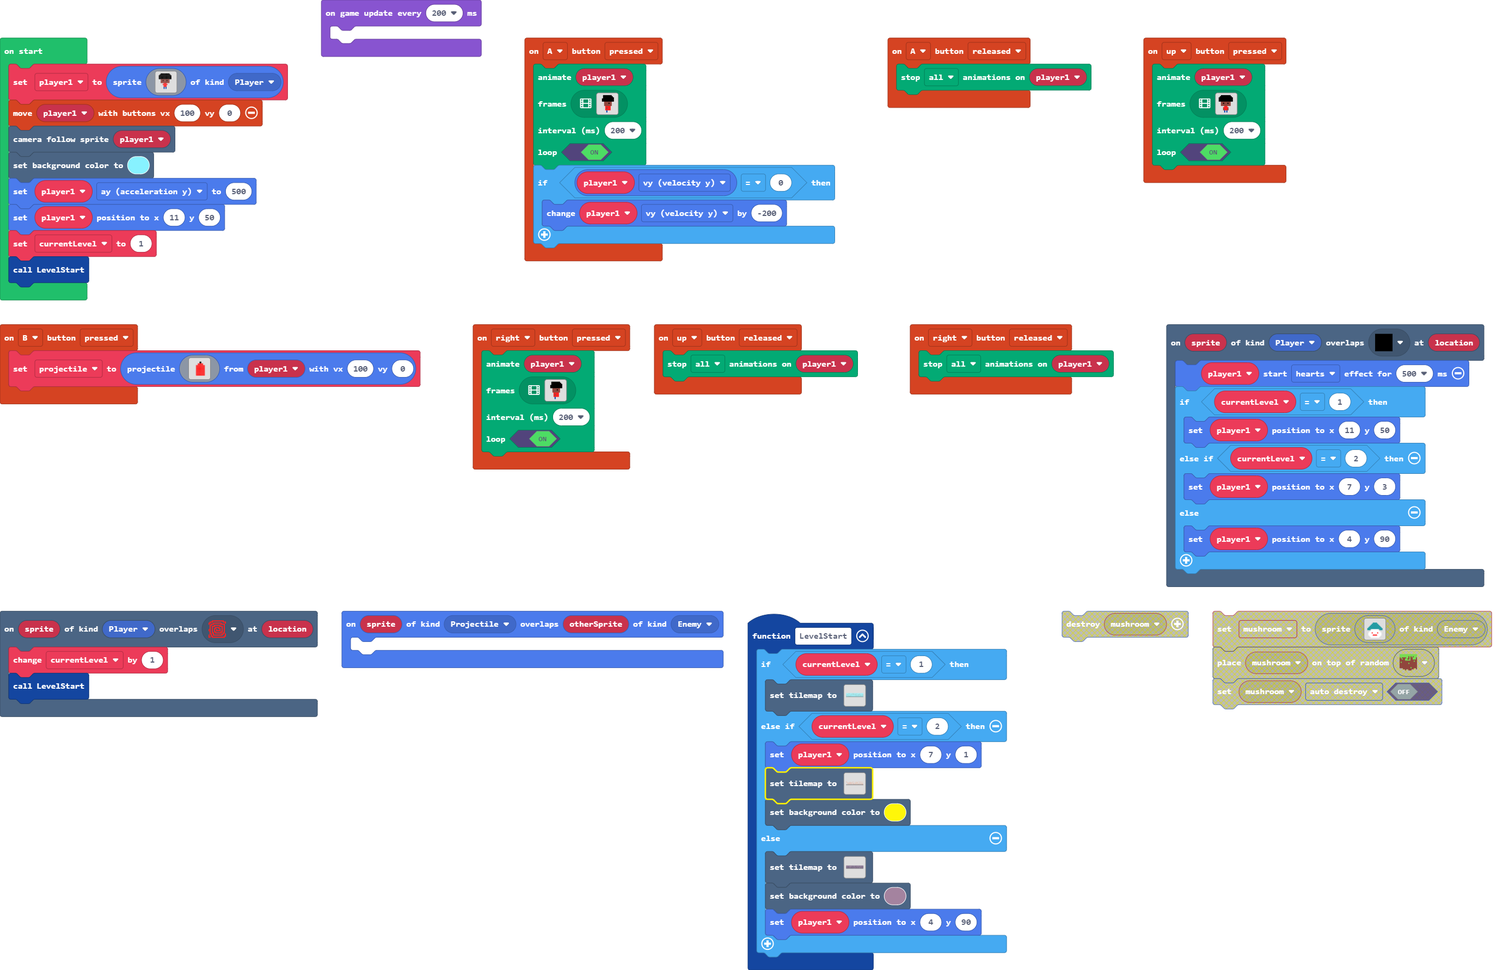
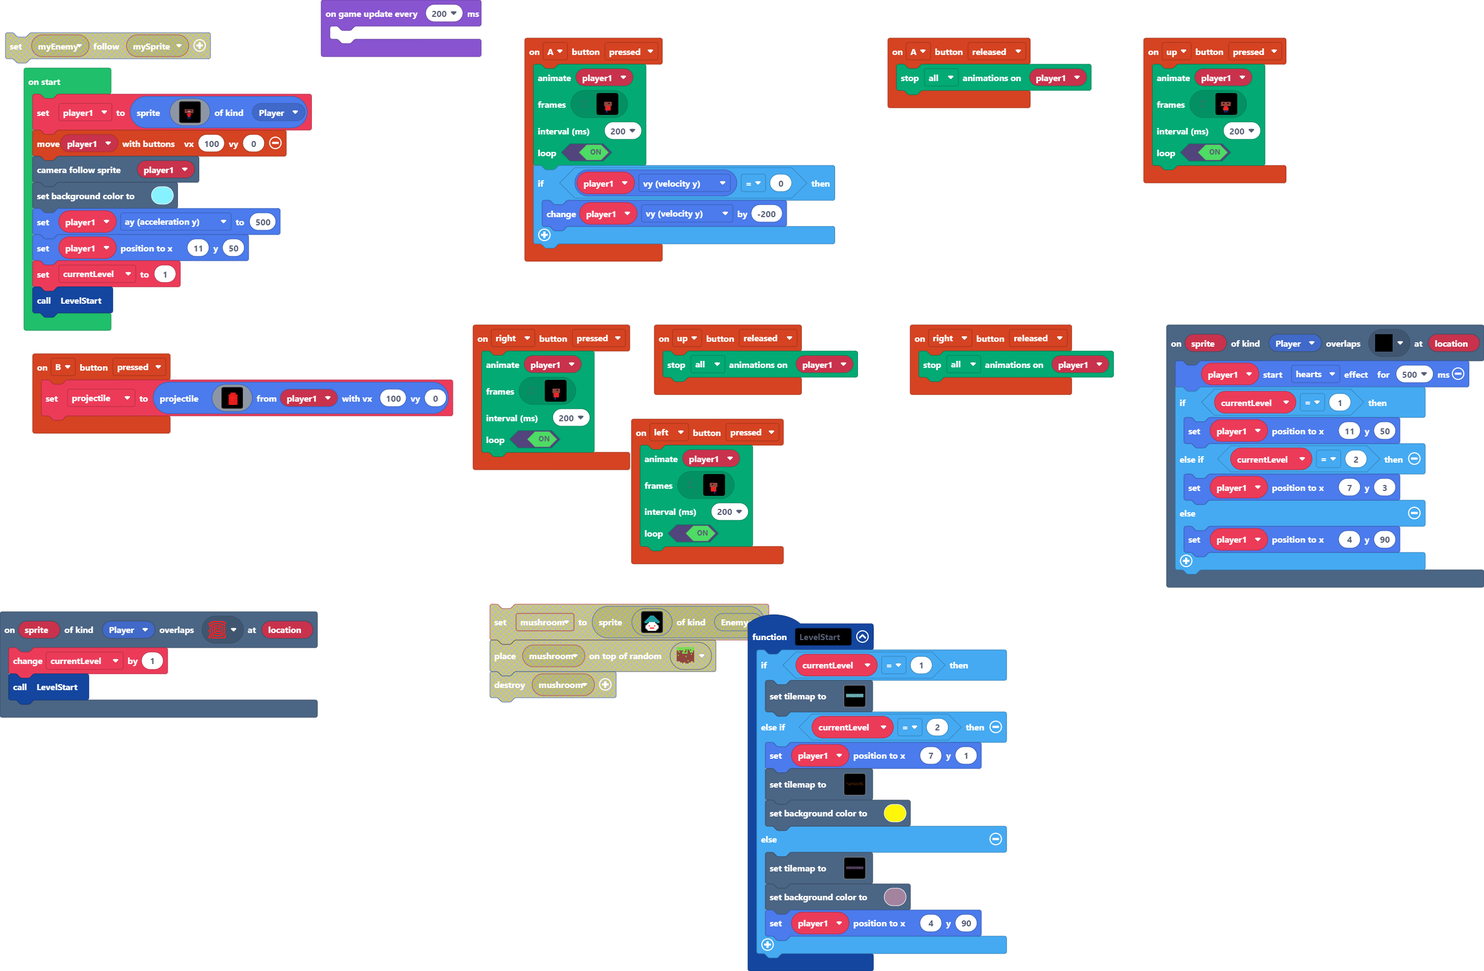
Update pxt.json, main.blocks, main.ts, tilemap.g.jres, tilemap.g.ts

diff --git a/tilemap.g.ts b/tilemap.g.ts
@@ -83,25 +83,6 @@ namespace myTiles {
 ..............................
 ..............................
 `, [myTiles.transparency16,myTiles.tile13], TileScale.Sixteen);
-            case "level1":
-            case "level1":return tiles.createTilemap(hex`500010000101010101010101010101010101010101010101010102010101010101010101010101010101010101010101010101010101010101010101010202020101010202020101010101010101010101010101010101010101020101010101010101010101020101010101010101010101010101010101010102010101010101010101010101010101010101010101010202010101010101010101010201010102020201020101010101010101020101040404010101010101010101010101010101040404040101010202010101010101010101010102020101010101010101010101010101010101010101010101010202010101010101010101010101010101010201010101010101010101010202040202020101010101010101010101010101010404040101010101010101010102010101010102020101010101010101010201010101010101010101010104020101010104010101010102010104040101010102020101040404010101010101010202020201010101010101020201010404040401010102010101010101010101010101010101010101010101010102010101010101010101010101020201010101010101010101010101010104040404040101010101010102020201010101010101010101010101010101010101010101010101010202010102010104010201010101010101010104040402010101010101040404040101010101010201020201010101010201010104040404040101010101020101010101010101020101010101010101020104040404010102020101010101010101010101010101010101010201010101010101010401010101010101010101010201010101010101010101010101010101020101010102010101010301010101010101010202020201010101010201040101010101010101040101010101010101020201010101010101010101010101010101010101010101010101010101010102010104040404040404040404040401010101010101010101010101010101010102020101010201010101010101010101020101010401010201010101010404040101010404040401020104040404040401010101010101010101010101010101010101010101010101010101010101020201010401020202010101010101020201010101010104020104040401010101020101010101010101010101010101010101010101010101010102010101010201010101040404040101010101010202040101010101010101010101010101010101010101010101010101010101010102010202010101010101010101010101010101010102020201010101010101020202020101010202020201010102040101010101010101020201010101010202020202010101010101010101010101010101010101010101010101010101010101010101010101010101010101010101010101010101010101010404040101010101010101010101010101010101010102020101010101010101010201020101010101010101010101020101010101020201010101010101010101010101010101010101010101010101010101010101020101010101010101010101010101010101010101010101010101010101010101010101010101010102010101010101010101010101010201010505050505050505050505050505050505050505050505050505050505050505050505050505050505050505050505050505050505050505050505050505050505050505050505050505050505050505`, img`
-................................................................................
-................................................................................
-.............222...............2222.............................................
-.............................2..................222.............................
-...........2.....2........22........222......................2222...............
-..........................................22222.................................
-..........2...........222.......2222...................22222....................
-.....2222...............................2.......................................
-...................2........2...........................................22222222
-2222......................................2........222...2222...222222..........
-.........................2..................2..222..............................
-..........2222........2.........................................................
-....................2...........................................................
-................222.............................................................
-................................................................................
-................................................................................
-`, [myTiles.transparency16,myTiles.tile1,myTiles.tile2,myTiles.tile6,myTiles.tile13,myTiles.tile11,myTiles.tile16], TileScale.Sixteen);
             case "level2":
             case "level2":return tiles.createTilemap(hex`6400100002020202020202020202020202020202020202020202020202020202020202020202020202020202020202020202020202020202010202020202020202020202020202020202020202020202020202020202020202020202020202020202020202020202020202020202020202020202020201020202020202020202020202020202020202020201020202020202020202020203020202020202020202020202020202020202020202020202020202020202020202030202010202020202020201020204020202010303030202020201020201030301020202020102020302020202020202030302020202020202020102020202020203020303030202020202020202020102020302020202010103030303020202020202020303020202020202020202020502050202020103030303020202020202020303030202020202020203020303030201020303030202020202020202020202020202030303030707020202010202020202020203030202020302030302030202020202020202030202020202020302050202020202020201020303030202010202020202030303020202020203030203020301010202020303030202020202020203020207070707020202020202020202020202020203030303020203030201030303020202020202020203030202020301020202020201020202020202020202020202020303020203030201020202010302020303030201020203030302020202020203030102020202020202020201020205020202020203030305020202020202020201010202020505030303030303030305020202020302020202020202020102030303030303020202010202020202030302030303030303020202050501020202020707070202020202020202020202020102020202020203020303030202020505050202020201020202020202020202030202020202020303020202020202020202020303030201020202020202020202020303030205050502020302020202020202010202020202020203020207020202020201020202020505050502020202020202020202030302070702020203030202020502020202020302020202030202020202020202020202020202020202020102020202020202020201030305050102020707070702020202020202030202020102030303050202020202020102020202020502020203030202020202020202050505020202020102050203050505050502020202020102020301020201020202020202020202050505020202020202020202020202020202020302020202020207020202020702030302020301020202020102020202030203020205050502020102030203030202020202020203020203020202020202020202020203030505050202020202020302020201020202020203020202020202020202020203020202070102020302020202020203030303020202020202020203030202030202020202020202030302030202020502030303020202020302020202020705050505030202020203050202020305010202020202020203030202020202030202020202020303020202020203020202020202020303030302020202020202030303030202020201020202030303030302020201010303020202020203030202020202020202020202020202020203050302020202030303020303020102020102030202020202020202030302020202030202020202020202020202020202020203030202020202020202020202020303030302020202020203020202010202020302020202020202020202020202020202020202020202010202020102020202020202020202020202020201020202020202020203030202020202020202020202020102030202020202020201020202020202020202020202020202020202020202020202020202020202020202020202020202020202020202020202020202020202020202020202020102020202020202020202020202020302020201020202020102020202020202020202010101020202020202020202010202020202020202020202020201020202020206060606060606060606060606060606060606060606060606060606060606060606060606060606060606060606060606060606060606060606060606060606060606060606060606060606060606060606060606060606060606060606060606060606`, img`
 ....................................................................................................
@@ -178,23 +159,61 @@ namespace myTiles {
 . . . . . . . . . . . . . . . . 
 . . . . . . . . . . . . . . . . 
 `, [myTiles.transparency16], TileScale.Sixteen);
+            case "level9":
+            case "level9":return tiles.createTilemap(hex`1000100000000000000000000000000000000000000000000000000000000000000000000000000000000000000000000000000000000000000000000000000000000000000000000000000000000000000000000000000000000000000000000000000000000000000000000000000000000000000000000000000000000000000000000000000000000000000000000000000000000000000000000000000000000000000000000000000000000000000000000000000000000000000000000000000000000000000000000000000000000000000000000000000000000000000000000000000000000000000000000000000000000000000000000000000000000000`, img`
+. . . . . . . . . . . . . . . . 
+. . . . . . . . . . . . . . . . 
+. . . . . . . . . . . . . . . . 
+. . . . . . . . . . . . . . . . 
+. . . . . . . . . . . . . . . . 
+. . . . . . . . . . . . . . . . 
+. . . . . . . . . . . . . . . . 
+. . . . . . . . . . . . . . . . 
+. . . . . . . . . . . . . . . . 
+. . . . . . . . . . . . . . . . 
+. . . . . . . . . . . . . . . . 
+. . . . . . . . . . . . . . . . 
+. . . . . . . . . . . . . . . . 
+. . . . . . . . . . . . . . . . 
+. . . . . . . . . . . . . . . . 
+. . . . . . . . . . . . . . . . 
+`, [myTiles.transparency16], TileScale.Sixteen);
+            case "level1":
+            case "level1":return tiles.createTilemap(hex`500010000101010101010101010101010101010101010101010102010101010101010101010101010101010101010101010101010101010101010101010202020101010202020101010101010101010101010101010101010101020101010101010101010101020101010101010101010101010101010101010102010101010101010101010101010101010101010101010202010101010101010101010201010102020201020101010101010101020101040404010101010101010101010101010101040404040101010202010101010101010101010102020101010101010101010101010101010101010101010101010202010101010101010101010101010101010201010101010101010101010202040202020101010101010101010101010101010404040101010101010101010102010101010102020101010101010101010201010101010101010101010104020101010104040101010102010104040101010102020101040404010101010101010202020201010101010101020201010404040401010102010101010101010101010101010101010101010101010102010101010101010101010101020201010101010101010101010101010104040404040101010101010102020201010101010101010101010101010101010101010101010101010202010102010104010201010101010101010104040402010101010101040404040101010101010201020201010101010201010104040404040101010101020101010101010101020101010101010101020104040404010102020101010101010101010101010101010101010201010101010101040401010101010101010101010201010101010101010101010101010101020101010102010101010301010101010101010202020201010101010201040401010101010101040401010101010101020201010101010101010101010101010101010101010101010101010101010102010404040404040404040404040401010101010101010101010101010101010102020101010201010101010101010101020101040401010201010101010404040101010404040404020104040404040401010101010101010101010101010101010101010101010101010101010101020201010404020202010101010101020201010101010104040104040401010101020101010101010101010101010101010101010101010101010102010101010201010101040404040101010101010202040101010101010101010101010101010101010101010101010101010101010102010202010101010101010101010101010101010102020201010101010101020202020101010202020201010102040101010101010101020201010101010202020202010101010101010101010101010101010101010101010101010101010101010101010101010101010101010101010101010101010101010404040101010101010102010101010101010101010102020101010101010101010201020101010101010101010101020101010101020201010101010101010101010101010101010101010101010101010101010101020101010101010101010101010101010101010101010101010101010101010101010101010101010102010101010101010101010101010201010505050505050505050505050505050505050505050505050505050505050505050505050505050505050505050505050505050505050505050505050505050505050505050505050505050505050505`, img`
+................................................................................
+................................................................................
+.............222...............2222.............................................
+.............................2..................222.............................
+...........2.....22.......22........222......................2222...............
+..........................................22222.................................
+..........2...........222.......2222...................22222....................
+.....2222..............................22.......................................
+...................22.......22.........................................222222222
+2222.....................................22........222...22222..222222..........
+.........................22.................22.222..............................
+..........2222........2.........................................................
+....................2...........................................................
+................222.............................................................
+................................................................................
+................................................................................
+`, [myTiles.transparency16,myTiles.tile1,myTiles.tile2,myTiles.tile6,myTiles.tile13,myTiles.tile11], TileScale.Sixteen);
             case "level5":
-            case "level5":return tiles.createTilemap(hex`500010000000000000000000000000000000000000000000000000000000000000000000000000000000000000000000000000000000000000000000000000000000000000000000000000000000000000000000000000000000000000000000000000000000000000000000000000000000000000000000000000000000000000000300000000000000000000000000020000000000000003000000000000000000000002020000000000000000000000000000000000000002000000000000000000000200000000000000000000000000000000000000000000000200000000000000000000000000000000000003000000000000000300000000000000000000000000000000000000000000000000000000000000000000000000000000000000000000000000000000000000000000000002020000000000000000000000000000000000000000000000000000000000000202020000000000000000000002000000000200000000000002020000000000000000000000000000000000000000020000000000000003000000000000000000000000000200000000000000000000000000000000000000000300000000000000000000000000000000000000000000030303030000000000000000000000000000000000000000000000000000000000000000000000000000030300000000000000000000000000000000000000000000000000000000000000000000000000000000000000000003000000000000000000000000000000000000030000000000000000000300000000000000000000000000020203020000000003000000000000000000000000000000000000000000000000000000000000000000000200000000000200000000000000000000000000000000000000000000000000000000000000000000000000000000000000000003000000000000000003030300000000000200000000000000000000000000000000000000000000000000000000000000000000030200000000000303030300000000000000000000000000000000000000000000000003030000000000000000000000000000000000020000000300000000000000000000000000000000000000000000000000000000000000000000000000000000000000020000000000000000000000000000000000000000000000000000000000000000000000000000000000030203000000000000000000000000000000000303000000000000000000020000000200000000000002020202020000000000000000000000000300000000000000000000000000000000000000000000000000000000000000000000000000000000000000000000000000000000000000000000000000000000000000000000000000000000000000000000000303030000000303000000000002000000000000000000030000000000000000000000000000000002000000000002000000030000000000000000000000000000030000000200000003000000000000000000000000000000000000000000000000000000000000000000000000000000000000000000000000000000000000000000000000000000000000000000000000000000000000000000000000000000000000000000000000000000000000000200000004000000000101010101010101010101010101010101010101010101010101010101010101010101010101010101010101010101010101010101010101010101010101010101010101010101010101010101010101`, img`
+            case "level5":return tiles.createTilemap(hex`500010000000000000000000000000000000000000000000000000000000000000000000000000000000000000000000000000000000000000000000000000000000000000000000000000000000000000000000000000000000000000000000000000000000000000000000000000000000000000000000000000000000000000000300000000000000000000000000020000000000000003000000000000000000000002020000000000000000000000000000000000000002000000000000000000000200000000000000000000000000000000000000000000000200000000000000000000000000000003030303000000000000000300000000000000000000000000000000000000000000000000000000000000000000000000000000000000000000000000000000000000000000000002020000000000000000000000000000000000000000000000000000000000000202020000000000000000000002000000000203030000000002020000000000000000000000000000000000000003020000000000030303000000000000000000000000030200000000000000000000000000000000000000000303000000000000000000000000000000000000000000030303030000000000000000000000000000000000000000000000000000000000000000000000000000030300000000000000000000000000000000000000000000000000000000000000000000000000000000000000000003030000000000000000000000000000000000030000000000000000030300000000000000000000000000020203020000000003030000000000000000000000000000000000000000000000000000000000000000030200000003030200000000000000000000000000000000000000000000000000000000000000000000000000000000000000000003030300000000000003030300000000000203000000000000000000000000000000000000000000000000000000000000000000030200000000000303030300000000000000000000000000000000000000000000000303030000000000000000000000000000000003020000030300000000000000000000000000000000000000000000000000000000000000000000000000000000000000020000000000000000000000000000000000000000000000000000000000000000000000000000000000030203000000000000000000000000000000000303020000000000000000020000000200000000000002020202020000000000000000000000000303000000000000000000000000000000000000000000000000000000000000000000000000000000000000000000000000000000000000000000000000000000000000000000000000000000000000000000000303030000000303000000000002000000000000000000030303000000000000000000000000000002020202020202000000030000000000000000000000000000030300000203000003030000000000000000000000000000000000000000000000000000000000000000000000000000000000000000000000000000000000000000000000000000000000000000000000000000000000000000000000000000000000000000000000000000000000000203030004000000000101010101010101010101010101010101010101010101010101010101010101010101010101010101010101010101010101010101010101010101010101010101010101010101010101010101010101`, img`
 ................................................................................
 ..............................................2.............2.......2...........
-22...................2..........2.......................2..................2....
+22...................2..........2.......................2...............2222....
 ...2............................................................22..............
-................222..........2....2......22....................2.......2........
-.....2....................2......................2222...........................
-...........22.............................................2..................2..
-.......2.............2222....2..................................2.....2.........
-....................................2........222.....2..........................
-........22.....2222........................22.................2...2.............
+................222..........2....222....22...................22.....222........
+....22....................22.....................2222...........................
+...........22.............................................22.................2..
+......22.............2222....22................................22...222.........
+....................................222......222.....22.........................
+........22.....2222.......................222................22..22.............
 ..............................2.........................................222.....
-...........22.........2...2......22222............2.............................
-......................................................222...22.....2.........2..
-..............2.....2...2..............2...2...2................................
-.......................................................................2........
+...........222........2...2......22222............22............................
+......................................................222...22.....2.........222
+..............2222222...2..............22..22..22...............................
+.......................................................................222......
 ................................................................................
 `, [myTiles.transparency16,myTiles.tile11,myTiles.tile18,myTiles.tile20,myTiles.tile6], TileScale.Sixteen);
         }

diff --git a/main.ts b/main.ts
@@ -184,6 +184,99 @@ scene.onOverlapTile(SpriteKind.Player, assets.tile`myTile4`, function (sprite, l
     currentLevel += 1
     LevelStart()
 })
+controller.left.onEvent(ControllerButtonEvent.Pressed, function () {
+    animation.runImageAnimation(
+    player1,
+    [img`
+        . . . . f f f f f f f f . . . . 
+        . . . f f f f f f f f f . . . . 
+        . . f f f f f f f f f f . . . . 
+        . . f f f f f f f f f f f . . . 
+        . . f f f f f f f f f f f . . . 
+        . . f f f f f f f f f f f . . . 
+        . . . . e e e e e e e . . . . . 
+        . . . . e e f e e e e . . . . . 
+        . . . . e e e e e e e . . . . . 
+        . . . . e e e e e e e . . . . . 
+        . . . . . 2 2 2 2 2 . . . . . . 
+        . . . . . 2 2 2 e 2 . . . . . . 
+        . . . . . 2 2 2 e 2 . . . . . . 
+        . . . . . 2 2 2 2 2 . . . . . . 
+        . . . . . . . . 8 . . . . . . . 
+        . . . . . . . . 8 . . . . . . . 
+        `,img`
+        . . . . f f f f f f f f . . . . 
+        . . . f f f f f f f f f . . . . 
+        . . f f f f f f f f f f . . . . 
+        . . f f f f f f f f f f f . . . 
+        . . f f f f f f f f f f f . . . 
+        . . f f f f f f f f f f f . . . 
+        . . . . e e e e e e e . . . . . 
+        . . . . e e f e e e e . . . . . 
+        . . . . e e e e e e e . . . . . 
+        . . . . e e e e e e e . . . . . 
+        . . . . . 2 2 2 2 2 . . . . . . 
+        . . . . . 2 2 2 e 2 . . . . . . 
+        . . . . . 2 2 e e 2 . . . . . . 
+        . . . . . 2 2 2 2 2 . . . . . . 
+        . . . . . . 8 . 8 . . . . . . . 
+        . . . . . . 8 . 8 . . . . . . . 
+        `,img`
+        . . . . f f f f f f f f . . . . 
+        . . . f f f f f f f f f . . . . 
+        . . f f f f f f f f f f . . . . 
+        . . f f f f f f f f f f f . . . 
+        . . f f f f f f f f f f f . . . 
+        . . f f f f f f f f f f f . . . 
+        . . . . e e e e e e e . . . . . 
+        . . . . e e f e e e e . . . . . 
+        . . . . e e e e e e e . . . . . 
+        . . . . e e e e e e e . . . . . 
+        . . . . . 2 2 2 2 2 . . . . . . 
+        . . . . . 2 2 e 2 2 . . . . . . 
+        . . . . . 2 e 2 2 2 . . . . . . 
+        . . . . . 2 2 2 2 2 . . . . . . 
+        . . . . . . 8 . . . . . . . . . 
+        . . . . . . 8 . . . . . . . . . 
+        `,img`
+        . . . . f f f f f f f f . . . . 
+        . . . f f f f f f f f f . . . . 
+        . . f f f f f f f f f f . . . . 
+        . . f f f f f f f f f f f . . . 
+        . . f f f f f f f f f f f . . . 
+        . . f f f f f f f f f f f . . . 
+        . . . . e e e e e e e . . . . . 
+        . . . . e e f e e e e . . . . . 
+        . . . . e e e e e e e . . . . . 
+        . . . . e e e e e e e . . . . . 
+        . . . . . 2 2 2 2 2 . . . . . . 
+        . . . . . 2 2 2 e 2 . . . . . . 
+        . . . . . 2 2 e 2 2 . . . . . . 
+        . . . . . 2 2 2 2 2 . . . . . . 
+        . . . . . . 8 . 8 . . . . . . . 
+        . . . . . . 8 . 8 . . . . . . . 
+        `,img`
+        . . . . f f f f f f f f . . . . 
+        . . . f f f f f f f f f . . . . 
+        . . f f f f f f f f f f . . . . 
+        . . f f f f f f f f f f f . . . 
+        . . f f f f f f f f f f f . . . 
+        . . f f f f f f f f f f f . . . 
+        . . . . e e e e e e e . . . . . 
+        . . . . e e f e e e e . . . . . 
+        . . . . e e e e e e e . . . . . 
+        . . . . e e e e e e e . . . . . 
+        . . . . . 2 2 2 2 2 . . . . . . 
+        . . . . . 2 2 2 e 2 . . . . . . 
+        . . . . . 2 2 2 e 2 . . . . . . 
+        . . . . . 2 2 2 2 2 . . . . . . 
+        . . . . . . . . 8 . . . . . . . 
+        . . . . . . . . 8 . . . . . . . 
+        `],
+    200,
+    true
+    )
+})
 scene.onOverlapTile(SpriteKind.Player, assets.tile`myTile9`, function (sprite, location) {
     player1.startEffect(effects.hearts, 500)
     if (currentLevel == 1) {
@@ -296,9 +389,6 @@ controller.A.onEvent(ControllerButtonEvent.Released, function () {
 controller.up.onEvent(ControllerButtonEvent.Released, function () {
     animation.stopAnimation(animation.AnimationTypes.All, player1)
 })
-sprites.onOverlap(SpriteKind.Projectile, SpriteKind.Enemy, function (sprite, otherSprite) {
-	
-})
 let projectile: Sprite = null
 let currentLevel = 0
 let player1: Sprite = null
@@ -311,7 +401,7 @@ player1 = sprites.create(img`
     . f f f f f f f f f f f f f . . 
     . . . e e e e e e e e e . . . . 
     . . . e e f e e e f e e . . . . 
-    . . . e e e e e e e e e . . . . 
+    . . . e e e 3 3 3 e e e . . . . 
     . . . e e e e e e e e e . . . . 
     . . . . . . 2 2 2 . . . . . . . 
     . . . . . 2 2 2 2 2 . . . . . . 
